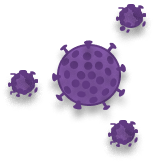
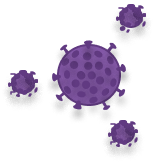
fix organism png and names

diff --git a/src/game/data/organisms.ts b/src/game/data/organisms.ts
@@ -11,7 +11,7 @@ export const organisms: OrganismData[] = [
     id: "acacia",
     name: "Bullhorn Acacia",
     texture: "acacia_sprite",
-    default_scale: 1.3,
+    default_scale: 1,
     growth_types: ["grow"],
   },
   {
@@ -30,14 +30,14 @@ export const organisms: OrganismData[] = [
   },
   {
     id: "ants",
-    name: "Ants",
+    name: "Acacia Ants",
     texture: "ants_sprite",
     default_scale: 1,
     growth_types: ["multiply"],
   },
   {
     id: "antfootbacteria",
-    name: "Ant foot bacteria",
+    name: "Ant Foot Bacteria",
     texture: "antfootbacteria_sprite",
     default_scale: 1,
     growth_types: ["multiply"],
@@ -58,7 +58,7 @@ export const organisms: OrganismData[] = [
   },
   {
     id: "mycorrhizahelper",
-    name: "Mycorrhiza helper bacteria",
+    name: "Mycorrhiza Helper Bacteria",
     texture: "mycorrhizahelper_sprite",
     default_scale: 1,
     growth_types: ["multiply"],
